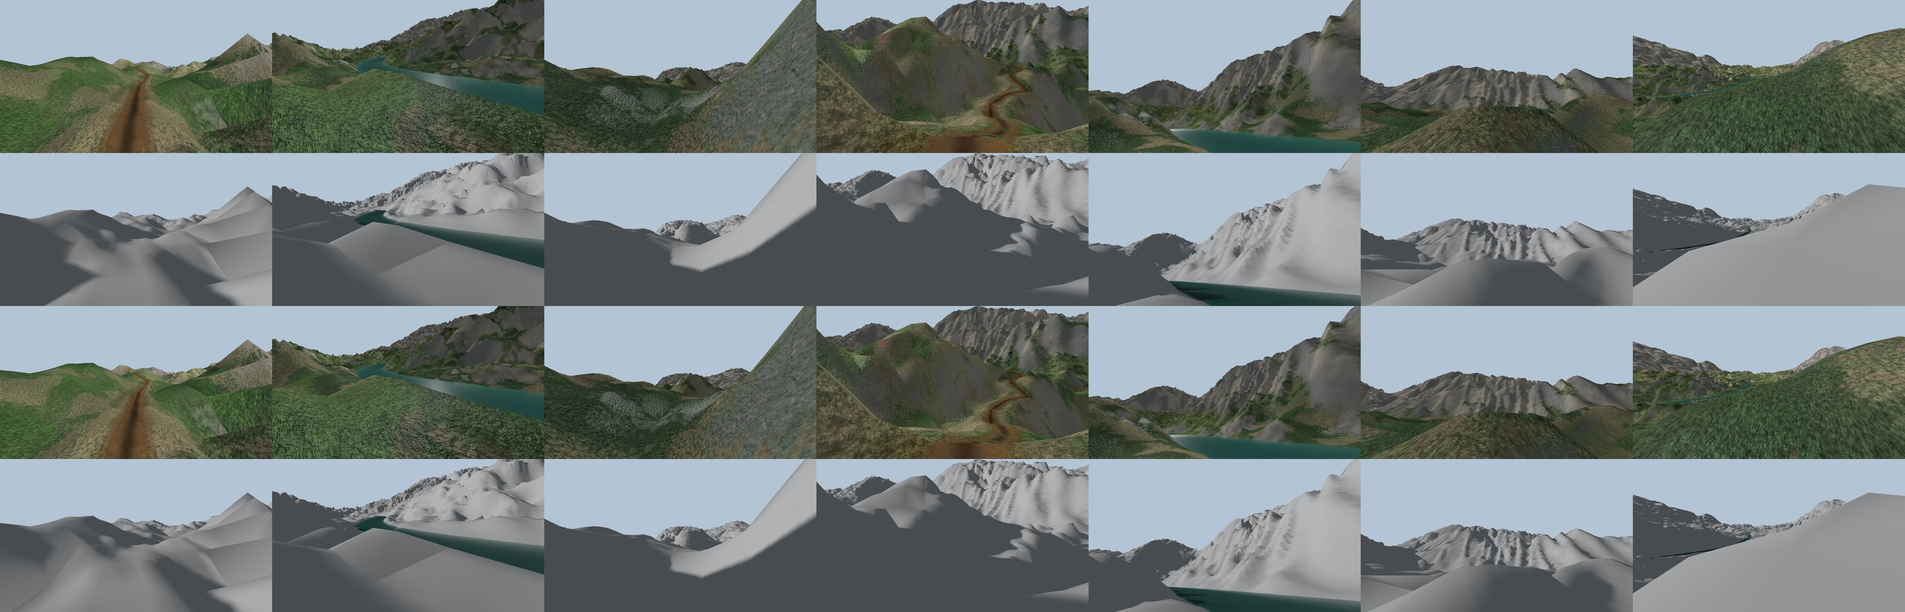
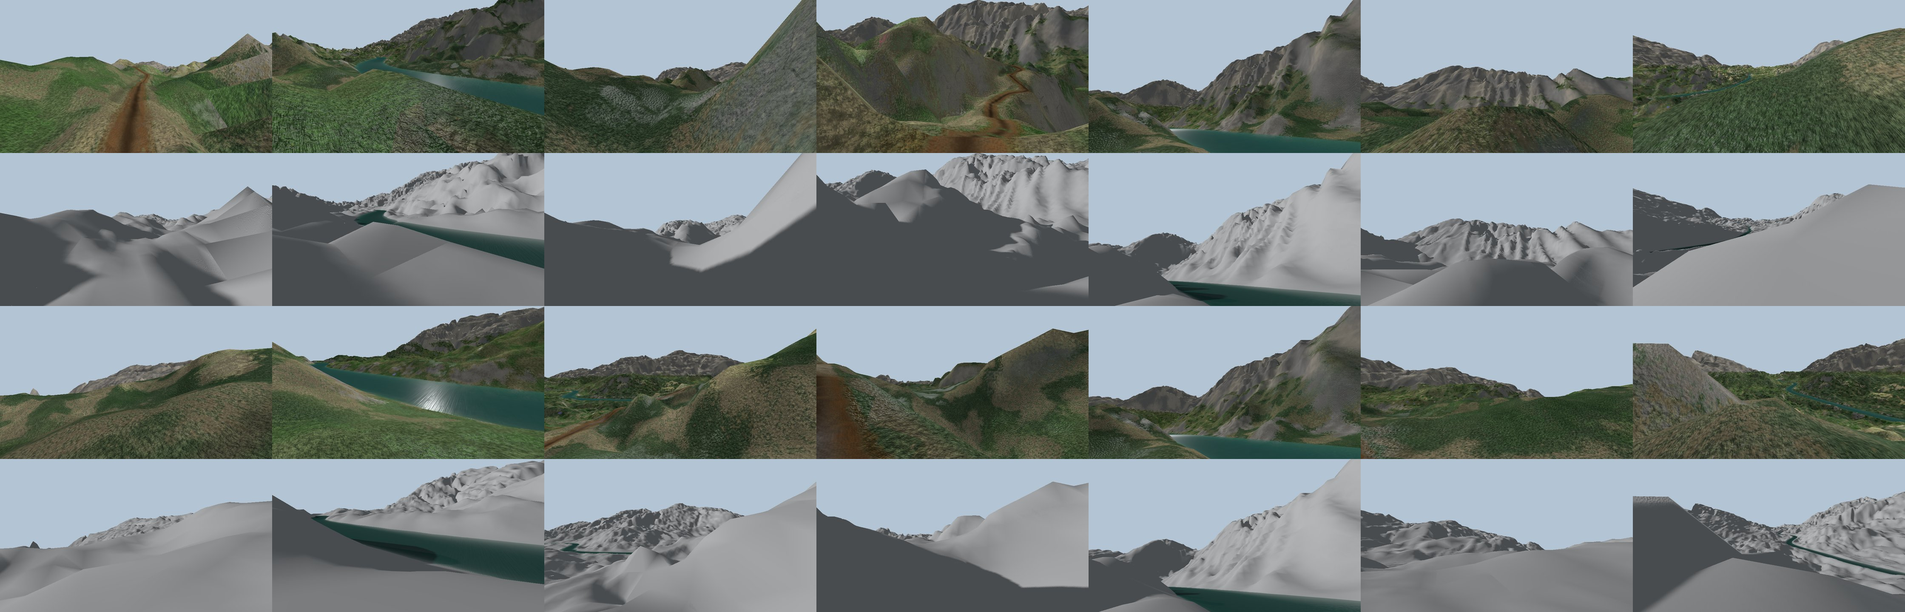
Relief part 2 stage 3: weaker floor-hill noise, erosion on rock-classified slopes
By the user's decision: sharpened forest-floor hills of the Type 2
generator weakened (meso_ridge_gain, meso_amp); rock-classified slopes
erode at rock_erosion_share; RockRelief strata and massif spots are
protected (massifs are now chosen from pre-erosion fields so erosion
knows them in advance).

diff --git a/scripts/core/FineRelief.Erosion.cs b/scripts/core/FineRelief.Erosion.cs
@@ -14,7 +14,8 @@ using Inputs = Godot.Collections.Dictionary;
 ///    там, где уклон падает;
 /// 6) склон: диффузия выше голов лощин (выпуклые бровки, сглаженный шум междуречий) и сползание всего, что круче max(угол устойчивости, исходный уклон),
 ///    — борта лощин не круче угла устойчивости, а исходные крутые стены генератора остаются;
-/// 7) предел: |изменение| ≤ min(расстояние до защиты × уклон перехода, наибольшая глубина формы) × доля «не скалы».
+/// 7) предел: |изменение| ≤ min(расстояние до защиты × уклон перехода, наибольшая глубина формы), на «скальных»
+///    по полю породы склонах — с долей rock_erosion_share; пласты RockRelief и места массивов — защита.
 /// Считается на своей сетке: блоки grid_factor × grid_factor узлов 4 м (среднее), изменение возвращается на 4 м
 /// билинейно. Так сток ведёт форма склона, а не мелкий шум генератора, и расчёт в factor² раз дешевле.
 /// Последовательные шаги (сток, порядок, врезание, наносы) однопоточны — результат не зависит от числа потоков.
@@ -27,7 +28,7 @@ public static class TerrainErosion
 	{
 		Iterations, TransitionGrade, MaxChange, IncisionRate, ReferenceArea, AreaExponent,
 		ReposeGrade, CreepRate, Diffusion, Capacity, DepositionRate, EdgeInflow, MinWidth, WetLow, WetHigh,
-		ChannelArea, Roughness, RoughnessWavelength, GridFactor, Count
+		ChannelArea, Roughness, RoughnessWavelength, GridFactor, RockShare, Count
 	}
 
 	// Порядок восьми соседей; одинаковый порядок обхода — одинаковый выбор при равных падениях на любом ПК.
@@ -65,7 +66,10 @@ public static class TerrainErosion
 		var lake = input["lake"].AsByteArray();
 		var allowed = new double[n];
 		for (int k = 0; k < n; k++)
-			allowed[k] = Math.Min(mask.ProtectM[k] * P(Parameter.TransitionGrade), P(Parameter.MaxChange)) * mask.RockFree[k];
+			// Склоны, которые поле породы считает скалой, размываются с долей rock_erosion_share; пласты RockRelief
+			// и места массивов защищены маской (ProtectM).
+			allowed[k] = Math.Min(mask.ProtectM[k] * P(Parameter.TransitionGrade), P(Parameter.MaxChange))
+				* (1.0 - (1.0 - P(Parameter.RockShare)) * (1.0 - mask.RockFree[k]));
 
 		// Сетка эрозии: блоки factor × factor узлов 4 м. Высота блока — среднее (мелкий шум генератора не ведёт сток),
 		// предел — наименьший в блоке (у защиты не больше, чем у самого защищённого узла), устье — если есть хоть одно.
@@ -607,6 +611,17 @@ public partial class FastGrid
 	/// <summary>Эрозия плана (ReliefErosion.run): hv, delta, карты area/deposit/wet байтами, номера изменённых узлов.</summary>
 	public Godot.Collections.Dictionary ErodeRelief(Inputs input, double[] maskParameters, double[] parameters)
 		=> TerrainErosion.Run(input, maskParameters, parameters);
+
+	/// <summary>Узлы, где высота изменилась больше чем на threshold, м (ReliefErosion.strata_mask: пласты RockRelief).</summary>
+	public byte[] ChangedMask(float[] before, float[] after, double threshold)
+	{
+		if (before.Length != after.Length)
+			return Array.Empty<byte>();
+		var mask = new byte[before.Length];
+		for (int i = 0; i < before.Length; i++)
+			mask[i] = Math.Abs(after[i] - (double)before[i]) > threshold ? (byte)1 : (byte)0;
+		return mask;
+	}
 
 	/// <summary>Копии полей выбора леса после эрозии (StageVegetation.fields): w.elev + delta / heightScale, w.slope
 	/// заново по той же формуле там, где сдвинулась высота узла или соседа, w.moist + moistGain × (W − 1/2).

diff --git a/scripts/core/FineRelief.Mask.cs b/scripts/core/FineRelief.Mask.cs
@@ -101,6 +101,15 @@ public sealed class ReliefMask
 			int x = cell % width, z = cell / width;
 			mask.Mark(distance, x - 1, z - 1, x + 1, z + 1);
 		}
+		// Эрозия: пласты RockRelief (узлы, которые он сдвинул) защищены как сооружения.
+		if (erosion && input.ContainsKey("strata"))
+		{
+			var strata = input["strata"].AsByteArray();
+			if (strata.Length == count)
+				for (int k = 0; k < count; k++)
+					if (strata[k] != 0)
+						mask.Mark(distance, k % width, k / width, k % width, k / width);
+		}
 		double[] sites = input["places"].AsFloat64Array();
 		// Тройки (x, z, радиус) в метрах; клетка (x, z) — узел на (x + 0,5) * tile.
 		for (int k = 0; k + 2 < sites.Length; k += 3)

diff --git a/docs/RELIEF_FINE_GEOMETRY_2.md b/docs/RELIEF_FINE_GEOMETRY_2.md
@@ -17,7 +17,7 @@
 | 0 | Картина цели: дальние виды и свет на стенде, образцы, оценка макроформ | ☑ | 25.11.2026, основной ПК | Дальние виды, ряд «глины» с низким солнцем, лист «было» `stage0-before`; образцов нет — цель словами (0.3) |
 | 1 | Основа: одно поле поверхности, эрозия — часть генерации Типа 2 | ☑ | 25.11.2026, основной ПК | Средние формы и проекция удалены, маска — `ReliefMask`, пустой шаг `ReliefErosion` в `finish_paths`, подресурс `relief_generation`; лист совпал с этапом 0 |
 | 2 | Основа: упростить слой 2 м, маску, ограничители, LOD, профили качества | ☑ | 25.11.2026, основной ПК | Опора всегда по полю 2 м, один предел высоты, фиксированные дальности LOD; «обычная» детализация убрана по ответу пользователя |
-| 3 | Эрозия: сток, врезание, сползание, наносы; стыки с дорогами, водой, скалами | ☑* | 25.11.2026, основной ПК | Связная сеть стока, лощины до 5 м по распадкам, наносы, карты A/D/W, детерминизм; на виде с тропы эффект слабый — мешают шум генератора и защита «скальных» склонов (вопрос раздела 9) |
+| 3 | Эрозия: сток, врезание, сползание, наносы; стыки с дорогами, водой, скалами | ☑* | 25.11.2026, основной ПК | Сеть стока, лощины до 5 м, наносы, карты A/D/W, детерминизм. По решению пользователя ослаблены заострённые холмы дна генератора, «скальные» склоны размываются с долей 0,5. На видах эффект эрозии всё ещё скромный: крутые стены почти целиком под защитой массивов и пластов |
 | 4 | Мелкие формы 2 м по линиям стока | ☐ | | |
 | 5 | Земля по процессам: материал из карт стока | ☐ | | |
 | 6 | Генератор и даль: фальшивые овраги генератора, шов с поясом, заезд | ☐ | | |
@@ -344,7 +344,12 @@
 - ☑ 3.6. Настройки эрозии в `relief_generation`, без чисел в коде. 18 полей с единицами; численные константы кода названы (`FillRiseM`, `WetSlopeFloor`, кодирование карт). Хеш подресурса — в ключах `surface` и растительности, пока эрозия включена: мир пересоздаётся при правке.
 - ◐ 3.7. Замер: время генерации длинного плана, время повторного входа. Измерено на фикстурах 384×1024: 0,64–1,02 с (на сетке 4 м было 3,4 с). Длинный план 384×3072 — оценка ×3, ≈ 2–3 с, сверх ориентира 1–2 с; генерацию длинного плана не запускал. Повторный вход — 0 (поле в артефакте `surface`).
 - ☑ 3.8. Растительность по новому полю: `W` эрозии вливается в `w.moist`, выпуклость для гильдий отчёта считается по полю после эрозии. Отдельной «второй влажности» нет. `StageVegetation.fields(w, bypasses, surface)` берёт копии `elev + delta/HS`, `slope` по той же формуле (`StageGeography.SLOPE_UNITS` = `FastGrid.SlopeUnits`) там, где сдвинулась высота, `moist + wet_moist_gain × (W − 1/2)`; выпуклость `local_convexity` считается по поправленному `elev`. Сам мир не меняется: поля мира в кэше остаются прежними на любом пути загрузки.
-- ✗ 3.9. Одна сверка долей пород вдоль тропы (хвойные/лиственные, клён, рябина, стланик) после эрозии. Подстройка только числами в `.tres`, без правки формул отчёта. Не сделано: нужна генерация мира; стенд растительность не строит. Сделать одной проверкой с генерацией после решения по разделу 9.
+- ☑ 3.9. Одна сверка долей пород вдоль тропы (хвойные/лиственные, клён, рябина, стланик) после эрозии. Подстройка только числами в `.tres`, без правки формул отчёта. Короткий план, до 60 м от оси тропы, без эрозии → с эрозией: Север — хвойные 58,6 → 59,3 %, лиственные 33,1 → 32,6 %, клён 15,9 → 15,6 %, рябина 4,5 → 4,8 %, ольха 8,3 → 7,1 %, стланик 4,9 → 4,7 %; Туман — 60,7 → 60,6, 31,4 → 31,4, 14,9 → 15,0, 4,6 → 5,3, 7,0 → 5,9, 4,8 → 4,8 %. Деревьев у тропы на 7 % меньше. Доли сдвинулись меньше чем на 1,5 п. п. — подстройка не нужна.
+
+**Решения пользователя по вопросу этапа 3 (25.11.2026).** (а) ослабить в `river_expedition.tres` только мелкие полосы шума генератора, крупные складки и отроги не трогать, Тип 1 не менять, трассу проверить глазами; (б) частично — защищать только места моделей скал и пласты RockRelief, остальные «скальные» склоны размывать с ослабляющим коэффициентом; (в) не делать; время генерации 2–3 с принято.
+- (а) Замер шероховатости поля 4 м (средний |лапласиан|, Север, короткий план) по вариантам генератора: без микрошума `valley_micro` −0,2 %, без мелких рёбер склонов `MountainDetail` +0,4 %, без широких «оврагов» `gully_*` −8 %, без холмов дна `meso_amp` −49 %, без заострения их гребней `meso_ridge_gain` −39 %. Главный мелкий шум — заострённые гребни «холмов лесного дна». Изменено: `meso_ridge_gain` 0,62 → 0,15, `meso_amp` 0,036 → 0,024; складки, отроги, стены, `gully_*`/`couloir_*` не тронуты. Тип 1 этих полей не использует. Трасса (`expedition_look --roads --short`, оба сида): сквозная, опорных точек 15/15 и 14/16 (с прежним шумом 6/14 и 9/16), наибольший уклон 66 и 89 % (было 106 и 101 %), лист `tools/control/runs/expedition_roadserosion_a.png`. Синтетический `road_golden` — 0 failures, переснимать нечего: эталонов дорог Типа 2 на сохранённых мирах в проекте нет.
+- (б) `rock_erosion_share = 0,5`: склоны, которые поле породы считает скалой, размываются вполовину. Защищены полностью: пласты RockRelief (узлы, которые он сдвинул больше `strata_protect_m = 1 м`; маска `Heightfield.rock_strata` снимается в `finish_paths` и передаётся загрузчику вместе с поверхностью) и пятна скальных массивов (их места считаются заранее теми же полями мира — `StageVegetation.massif_sites`; раскладка леса теперь выбирает массивы по полям до эрозии). Мелкие выходы камней ставятся растительностью после эрозии и садятся на новую землю — их места заранее не известны. На крутых стенах массивов и пластов так много (≈ 2,6 тыс. массивов на плане 384×1024), что стены почти целиком под защитой.
+- Время эрозии на плане 384×1024 — 1,2–1,6 с вместе с местами массивов; длинный план ≈ 3–4 с. Принято пользователем (2–3 с), записано с поправкой на места массивов.
 
 **Цель на глаз (лес):** по смене пород видно лощину издалека: раскидистые кроны и папоротник в распадке, тёмные кедры и лиственница на ребре.
 
@@ -467,6 +472,7 @@
 | 25.11.2026, основной ПК | П | Версия 2: аудит по `RoadBed`, `RoadRefinement`, `RockRelief`, `TerrainBuilder.cavity_image`, `ChunkSource` |
 | 25.11.2026, основной ПК | П | Версия 3: разбор устройства части 1 (`chunk_source.read` → `ProjectCoarseMesh`, `heightfield.ground_at`/`base_ground_at`, `FineRelief.Sample` с флагом опубликованности, цепочка пределов в `FineRelief.Forms.cs`, `FineRelief.Lod.cs` и `plan_terrain_lod.gd`, профили качества в `plan_terrain_detail.gd`, `world_loader.prepare_streaming` после `save_surface`). Порядок стадий генерации и ключ кэша Типа 2 не проверены — задача 1.1 и 1.6 |
 | 25.11.2026, основной ПК | П | Версия 3.1: учтён отчёт по растительности. По `stage_vegetation.gd` подтверждено, что выбор пород читает `w.elev`, `w.slope`, `w.moist` и `local_convexity(w.elev)`. Связи внесены в этапы 1, 3, 4, 5 |
+| 25.11.2026, основной ПК | 3 | Доработка по решению (а)+(б): ослаблены заострённые холмы дна генератора (`meso_ridge_gain`, `meso_amp`), эрозия на «скальных» склонах с долей 0,5, защита пластов RockRelief и мест массивов. Фикстуры пересозданы (версия 2: маска пластов). Проверено: `relief_erosion_probe -- --repeat` (повтор побайтно, оба сида), `relief_fine_golden.gd -- --save` (0 failures, эталон переснят намеренно), стенд `--fine on --parity` на двух сидах (0 failures), `road_golden` (0 failures), `expedition_look --roads --short` (трасса сквозная, лист), сверка пород вдоль тропы (3.9). Листы: `stage3_far_views_*.jpg` (этап 0 → сейчас, ракурсы дальних видов выбираются заново по новому полю), `stage3_erosion_ab_*.jpg` (те же ракурсы без эрозии и с ней). Не проверялось: игра, `check.gd` Типа 1. Поиск чисел: `MASSIF_RADIUS` — индекс поля записи массива, остальное в ресурсе |
 | 25.11.2026, основной ПК | 3 | Эрозия (`TerrainErosion`, `scripts/core/FineRelief.Erosion.cs`), подключение в `finish_paths`, карты стока в артефакте `surface`, растительность по поправленным полям. Подбор на `relief_erosion_probe.gd` (без окна, карта сверху) и стенде «глина»: (1) без связного стока водосборы рвались на 6 476 ям — переход на подъём поверхности стока по прежнему дереву дал 0 ям и водосборы до 0,75 км²; (2) на сетке 4 м сток вёл шум генератора и сеть не читалась — сетка 8 м; (3) сильная диффузия давала «сглаживание вместо форм», порог головы лощины и диффузия только на почве это убрали; (4) широкий снос гладких склонов — абсолютный предел 5 м и шероховатость стока. Итог: лощины по распадкам медиана 1,2 м, 90-я доля 3,6 м, до 5 м; выносы у подножий; междуречья почти не меняются. Время 0,64–1,02 с на плане 384×1024. Проверено: `dotnet build`, `--check-only`, повтор эрозии (побайтно тот же, оба сида), `relief_fine_golden.gd -- --save` (0 failures, эталон переснят намеренно — поле 4 м изменилось), стенд `--fine on --parity` на двух сидах (0 failures), лист `stage3-after` против `stage2-after`. Не проверялось: генерация мира с растительностью (3.9), игра, `check.gd` Типа 1 (Тип 1 эрозию не включает), `road_golden` (дороги до эрозии и защищены). Цель на глаз достигнута частично (☑*): сеть стока есть на картах и на дальних стенах, с тропы почти не видна. Поиск чисел: новые константы названы, остальное — математика (FWHM 2,355, дисперсия фильтра 1/2, центр клетки); `60` уклона вынесено в `SLOPE_UNITS`/`SlopeUnits` |
 | 25.11.2026, основной ПК | 2 | Простой слой 2 м. Удалено: зависимость опоры от публикации плиток (`SetActive`, `forPlacement`, `placement_ground_at`, `ground_changed(detail_only)`), три предела высоты и вес-предел (вместо них `max_offset_m`), выбор LOD по ошибке (`LodError`, три настройки), флаг нормалей в выборке LOD. Подготовка поля 2 м на стенде 68–77 мс. Проверено: `dotnet build` (0), `--check-only`, `relief_fine_golden.gd -- --save` (0 failures; эталон переснят намеренно из-за единого предела), стенд `--fine on --parity` на двух сидах (0 failures, лист `stage2-after` против `stage1-after`: отличаются 0,05–0,4 % пикселей), `--ride` на Севере: p99 3,0 мс, худший кадр 72 мс в первом кадре заезда (6 компиляций конвейера, не поток), пик 169 172 треугольника, опозданий LOD и поля 2 м 0. Не проверялось: игра, второй ПК. Поиск чисел: в изменённых строках только математика |
 | 25.11.2026, основной ПК | 1 | Основа «одно поле». Удалено: средние формы по хешу (`FineRelief.Medium.cs`, проекция мешей чанков, `SampleCoarse`/`SampleSurface`/`HasMedium`/`BuildCoarseLod`, `fine_medium`, 4 группы и 33 числа `relief_detail`, режим стенда `compare_mid`); второго поля `C` поверх `hv` больше нет. Маска вынесена в `ReliefMask` с числами в новом подресурсе `relief_generation`; пустой шаг `ReliefErosion` в конце `finish_paths`; фикстуры хранят поле до эрозии. Подготовка поля 2 м на стенде 90–113 мс (со средними формами было 0,4–0,6 с). Проверено: `dotnet build` (0 ошибок), `--check-only` изменённых скриптов, `relief_fine_golden.gd -- --save` (0 failures; эталон переснят намеренно — плитки 2 м строились от поля `C`), стенд `--fine on --parity` на двух сидах (0 failures), лист `stage1-after` против `stage0-before` — на глаз без отличий (средние формы и были невидимы, см. 2.1), ключи кэша. Не проверялось: `check.gd` Типа 1 (Тип 1 идёт мимо изменений: `relief_generation` и `relief_detail` у него `null`, шаг эрозии возвращается сразу), `road_golden` (дороги не трогались), игра. Поиск чисел в изменённых строках: только математика и единицы (центральная разность, центр клетки, мс); перенесённая маска новых чисел не содержит |

diff --git a/docs/WORLD_TEMPLATES.md b/docs/WORLD_TEMPLATES.md
@@ -711,7 +711,7 @@
 | **Холмы и распадки лесного дна долины** | `resources/world_types/river_expedition.tres` | **«Рельеф лесного дна долины»** — `meso_*` (холмы и гребни), `bank_variation*`, `floor_gully*`, `valley_micro` (`RP_COUNT = 82` в `relief_params()`) |
 | **Точная геометрия и опора 2 м** | `resources/world_types/river_expedition.tres` | `relief_detail`: **«Сетка и уровни»** — шаг, размер порции, радиусы подготовки и смешивания; **«Восстановление»** — ограниченный Catmull–Rom и `max_offset_m`, единственный предел отклонения поля 2 м от сетки 4 м (и для бикубика, и для форм); **«Бюджет»** — нативное поле, LRU массивов и тени. `params()` передаёт настройки поля в `FineRelief` (C#). Слой строится после генерации и не меняет ключи кэша плана и полотна. Опора и посадка всегда идут по полю 2 м (с 25.11.2026), меш догоняет их морфингом. |
 | **Промоины, вывалы, террасетки, пойма и береговые уступчики** | `resources/world_types/river_expedition.tres` | Подресурс `relief_detail`, группы по каждой форме. В **«Малых формах»** находятся `forms_enabled` и предел уклона с его приростом; высоту форм ограничивает общий `max_offset_m`. C# строит формы после генерации по уклону, перегибу, биомам и расстоянию от реки. |
-| **Маска и эрозия генерации (часть 2)** | `resources/world_types/river_expedition.tres` | Подресурс `relief_generation`: группа **«Маска»** — защита дороги, воды, мест, сооружений, скал и края плана (одна для эрозии и поля 2 м, в C# — `ReliefMask`, `mask_params()`); `erosion_enabled` — шаг `ReliefErosion` в конце `Heightfield.finish_paths` (алгоритм `TerrainErosion` в C#); группы **«Эрозия: время и пределы»** (сетка, итерации, уклон перехода, наибольшая глубина), **«врезание»** (скорость, опорный водосбор и порог головы лощины, ширина, шероховатость стока, приток с края), **«склоны и наносы»** (угол устойчивости, сползание, диффузия, ёмкость и доля наносов), **«влажность»** (полоса индекса и вклад во влажность леса). Карты стока — в артефакте `surface`; подбор — `tools/relief_erosion_probe.gd`. Пока эрозия выключена, подресурс не входит в ключи кэша; включённая эрозия добавляет его хеш к ключам поверхности и растительности. Средние формы по хешу (бугры, западины, овражки) удалены 25.11.2026: их заменит эрозия. |
+| **Маска и эрозия генерации (часть 2)** | `resources/world_types/river_expedition.tres` | Подресурс `relief_generation`: группа **«Маска»** — защита дороги, воды, мест, сооружений, скал и края плана (одна для эрозии и поля 2 м, в C# — `ReliefMask`, `mask_params()`); `erosion_enabled` — шаг `ReliefErosion` в конце `Heightfield.finish_paths` (алгоритм `TerrainErosion` в C#); группы **«Эрозия: время и пределы»** (сетка, итерации, уклон перехода, наибольшая глубина), **«врезание»** (скорость, опорный водосбор и порог головы лощины, ширина, шероховатость стока, приток с края), **«склоны и наносы»** (угол устойчивости, сползание, диффузия, ёмкость и доля наносов), **«влажность»** (полоса индекса и вклад во влажность леса). Карты стока — в артефакте `surface`; подбор — `tools/relief_erosion_probe.gd`. `rock_erosion_share` — доля эрозии на «скальных» по полю породы склонах; пласты RockRelief (сдвиг больше `strata_protect_m`) и пятна скальных массивов защищены полностью. Мелкий шум генератора, спорящий с лощинами, — заострённые «холмы лесного дна» (`meso_ridge_gain`, `meso_amp` в группе «Рельеф лесного дна долины»), ослаблены 25.11.2026. Пока эрозия выключена, подресурс не входит в ключи кэша; включённая эрозия добавляет его хеш к ключам поверхности и растительности. Средние формы по хешу (бугры, западины, овражки) удалены 25.11.2026: их заменит эрозия. |
 | **Морфинг 4→8→16 м** | `resources/world_types/river_expedition.tres` | Подресурс `relief_detail`, группа **«Средние и дальние уровни»**. `lod_morph` включает плавные уровни. `lod_end_m` (одна дальность для всех чанков) и `lod_fade_m` определяют интервалы морфинга. `lod_edge_fade_m` задаёт переход к общему ребру, `lod_load_margin_m`, `lod_hysteresis_m` и `lod_recover_s` управляют подменой после подготовки меша. |
 | **Климат и граница леса/гольцов/снега** | `resources/world_types/river_expedition.tres` | **«Климат и экология»** — `lat_mode`, `lat_start`, `lat_end`, `eco_base`, `eco_residual`, `outer_temp_lapse`, `peak_elev`, `peak_cold_elev`, `snow_temp`, `rock_elev`, `rock_slope`, `treeline_elev` |
 | **Атмосфера, пасмурность, осень, туман и LUT** | `resources/world_types/river_expedition.tres` (схема `scripts/world/world_atmosphere_config.gd`) | Вложенный `WorldAtmosphereConfig` (`atmosphere`): **«Пасмурное небо и облачность»** (`cloud_cover_min/max`, `overcast_deck`, `overcast_*`, `sky_overcast_blend`, `sun_halo_mul`), **«Освещение и тени»** (`sun_energy_mul`, `ambient_energy_mul`, `exposure_mul`, `shadow_blur_add`, `day_saturation_mul`), **«Горный туман и долинная дымка»** (`fog_density_mul`, `local_mist_floor`, `fog_height_offset`, `fog_height_density_mul`, `aerial_perspective_mul`, `volumetric_density_mul`, `volumetric_horizon_tint`, `overcast_shadow_damp`, `local_mist_patch_mul`, `local_mist_moist_range`, `local_mist_slope_range`, `local_mist_min_suitability`), **«Осенняя палитра»** (`autumn_strength`, `ground_turf_desat`, `ground_moss_darken`, `ground_litter_warmth`), **«Цветокоррекция и планы (VisualStyle)»** (`style_preset`, `lut_*`, `agx_contrast_max`, `depth_*`). Не меняет дисковые ключи `WorldCache`. |
